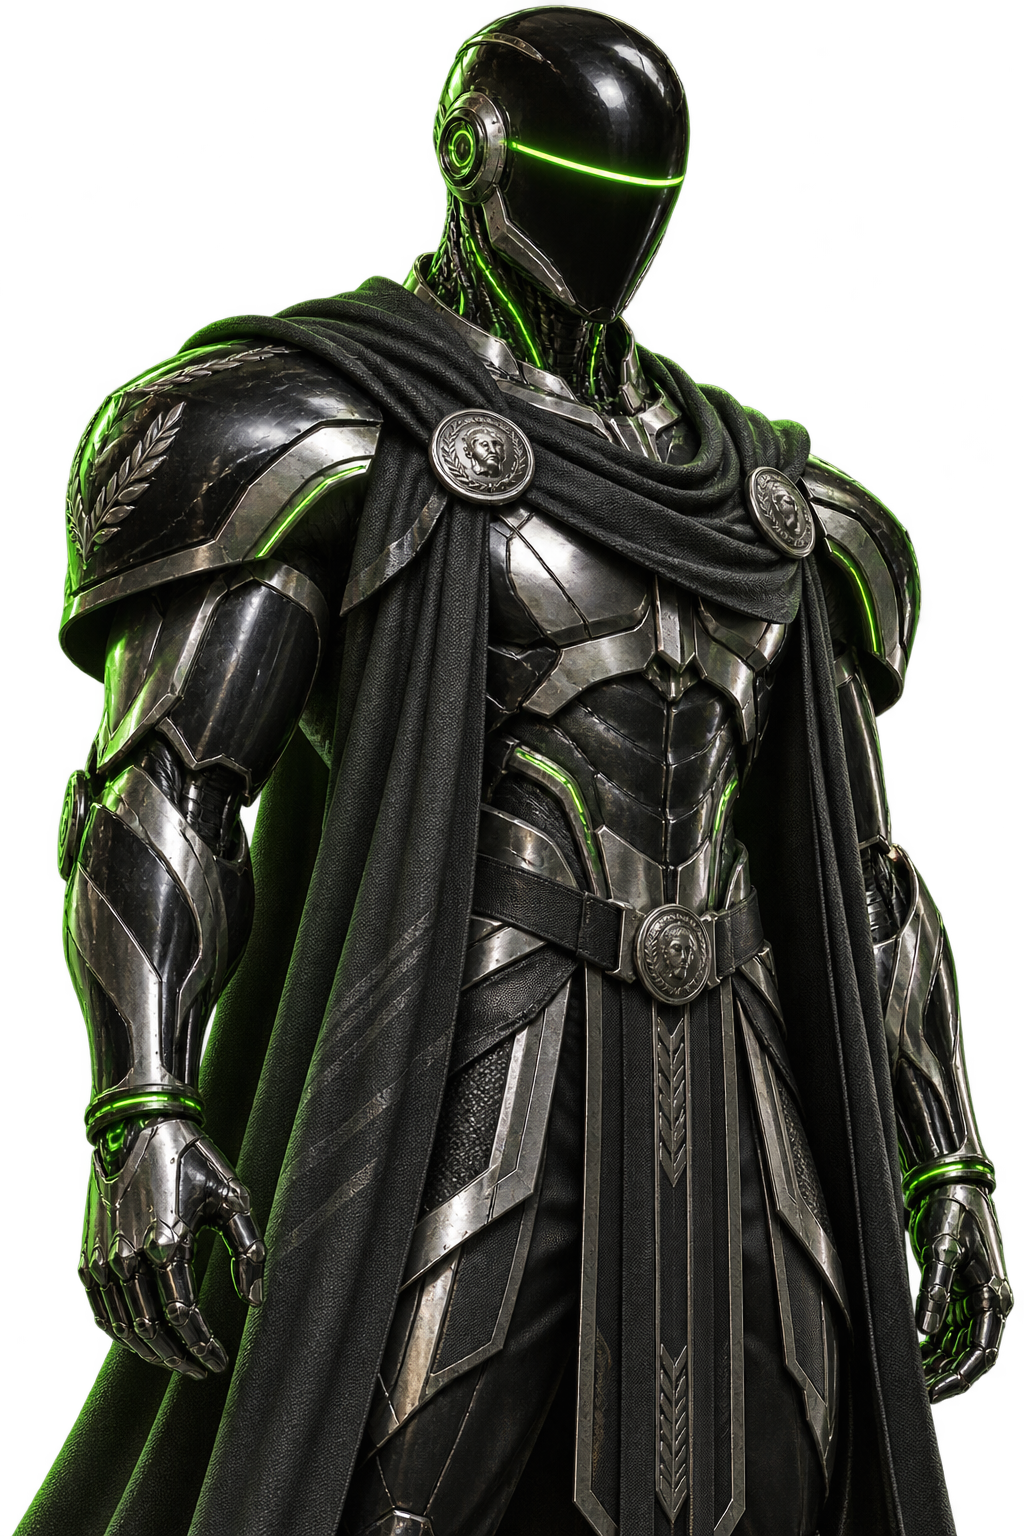
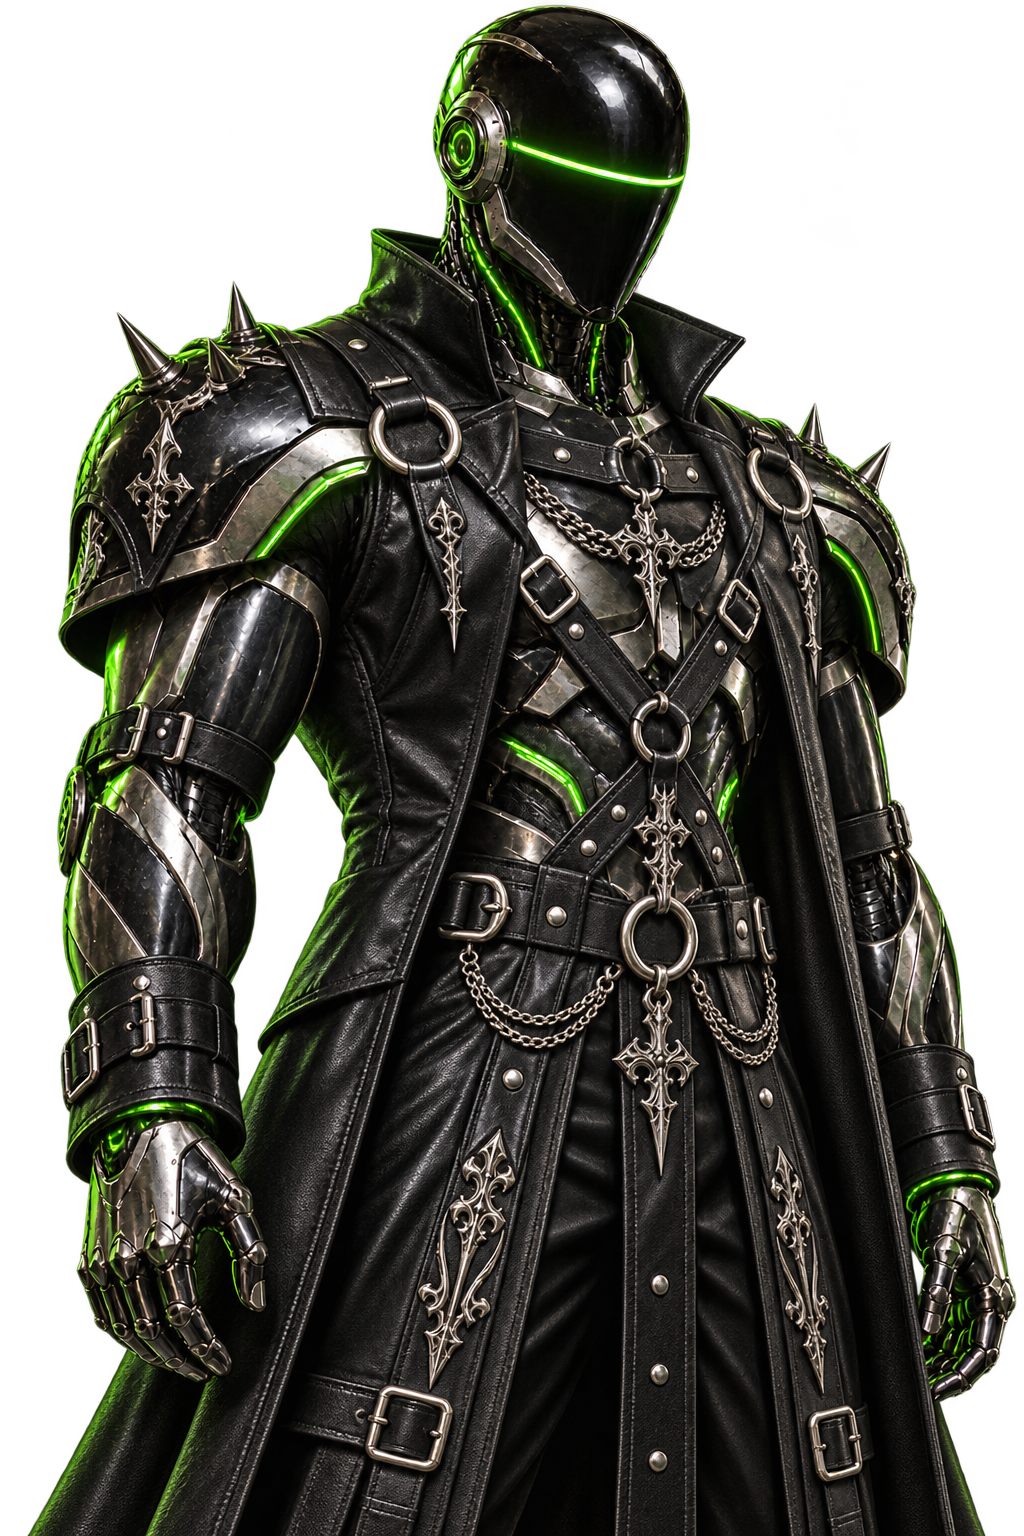
feat(site): Add gothic sci-fi fashion to Arena artwork

diff --git a/site/index.html b/site/index.html
@@ -27,7 +27,7 @@
   <main id="main">
     <section class="hero-scroll" data-parallax aria-labelledby="hero-title">
       <div class="hero stage">
-        <div class="scene hero-scene" id="hero-art" role="img" aria-label="Original concept art: a black-chrome cyborg emissary stands inside a monumental green-lit orbital Colosseum. Scrolling brings the character and architecture closer at different speeds.">
+        <div class="scene hero-scene" id="hero-art" role="img" aria-label="Original concept art: a black-chrome cyborg emissary in a studded leather harness coat stands inside a green-lit gothic orbital cathedral. Scrolling brings the character and architecture closer at different speeds.">
           <img class="scene-back" data-motion="vault" src="assets/neon-vault.png" alt="" aria-hidden="true" width="1536" height="1024" fetchpriority="high">
           <span class="hero-word" aria-hidden="true">CUCKODING</span>
           <img class="character emissary" data-motion="emissary" src="assets/neon-emissary.png" alt="" aria-hidden="true" width="1024" height="1536" fetchpriority="high">
@@ -82,7 +82,7 @@
     </div></section>
 
     <section class="section wrap afterparty" aria-labelledby="party-title"><div class="party-copy"><p class="eyebrow">Intermission / Pan has entered the chat</p><h2 id="party-title">They took<br>our jobs.<br><em>And the aux.</em></h2><p>The robots have discovered cocktails, synths, and questionable dance moves. Pan is delighted. The Emperor would like someone to finish the backlog.</p><p class="micro">SATIRE / NOT A FEATURE REQUEST</p></div>
-      <figure><div class="scene party-scene" id="revel-art" data-parallax role="img" aria-label="Concept art: a cybernetic Pan plays a synthesizer while two black-chrome robots dance and raise a cocktail in a neon arena."><img class="scene-back" data-motion="depth" src="assets/neon-arena.png" alt="" aria-hidden="true" width="1536" height="1024" loading="lazy"><img class="character pan" data-motion="pan" src="assets/neon-pan.png" alt="" aria-hidden="true" width="1254" height="1254" loading="lazy"><img class="character dancers" data-motion="dance" src="assets/neon-revelers.png" alt="" aria-hidden="true" width="1536" height="1024" loading="lazy"></div><figcaption>Separate characters. Shared questionable taste in music.</figcaption></figure>
+      <figure><div class="scene party-scene" id="revel-art" data-parallax role="img" aria-label="Concept art: a cybernetic Pan in studded leather plays a synthesizer while two robots in gothic harness fashion and platform boots dance and raise a cocktail in a neon arena."><img class="scene-back" data-motion="depth" src="assets/neon-arena.png" alt="" aria-hidden="true" width="1536" height="1024" loading="lazy"><img class="character pan" data-motion="pan" src="assets/neon-pan.png" alt="" aria-hidden="true" width="1254" height="1254" loading="lazy"><img class="character dancers" data-motion="dance" src="assets/neon-revelers.png" alt="" aria-hidden="true" width="1536" height="1024" loading="lazy"></div><figcaption>Separate characters. Shared questionable taste in music.</figcaption></figure>
     </section>
 
     <section class="section wrap" id="progress" aria-labelledby="progress-title"><div class="section-heading"><div><p class="eyebrow">04 / Development status</p><h2 id="progress-title">Real progress.<br><em>No holographic promises.</em></h2></div><p>Cuckoding is in active development. The source and local build instructions are available. This is not a signed or notarized public release.</p></div>
@@ -92,7 +92,7 @@
     </section>
 
     <section class="finale" aria-labelledby="finale-title"><div class="wrap"><div class="finale-copy"><p class="eyebrow">A warning from the cheap seats</p><h2 id="finale-title">Outsource the work.<br><em>Keep the joy.</em></h2><p>Give the machines every task, every dance, every ridiculous little pleasure — and eventually all that’s left is watching them have a life.</p></div>
-      <figure><div class="scene doom-scene" id="doom-art" data-parallax role="img" aria-label="Darkly satirical concept art: robots party above three melancholy adults chained to heavy weights, having surrendered their leisure to machines."><img class="scene-back" data-motion="depth" src="assets/neon-arena.png" alt="" aria-hidden="true" width="1536" height="1024" loading="lazy"><img class="character leisure" data-motion="leisure" src="assets/neon-revelers.png" alt="" aria-hidden="true" width="1536" height="1024" loading="lazy"><img class="character humans" data-motion="weight" src="assets/neon-humans.png" alt="" aria-hidden="true" width="1536" height="1024" loading="lazy"></div><figcaption>A fictional, satirical finale. Automation should buy you a life, not replace it.</figcaption></figure>
+      <figure><div class="scene doom-scene" id="doom-art" data-parallax role="img" aria-label="Darkly satirical concept art: robots in gothic leather and chrome party above three melancholy adults chained to heavy weights, having surrendered their leisure to machines."><img class="scene-back" data-motion="depth" src="assets/neon-arena.png" alt="" aria-hidden="true" width="1536" height="1024" loading="lazy"><img class="character leisure" data-motion="leisure" src="assets/neon-revelers.png" alt="" aria-hidden="true" width="1536" height="1024" loading="lazy"><img class="character humans" data-motion="weight" src="assets/neon-humans.png" alt="" aria-hidden="true" width="1536" height="1024" loading="lazy"></div><figcaption>A fictional, satirical finale. Automation should buy you a life, not replace it.</figcaption></figure>
     </div></section>
   </main>
   <footer class="site-footer wrap"><a class="brand" href="#top"><img src="assets/mark.svg" alt="" aria-hidden="true" width="36" height="36"><span>CUCKODING</span></a><p>Your machine. Your agents. Your call.</p><a href="https://github.com/mpakus/cuckoding.com/blob/main/LICENSE">Source &amp; license ↗</a><a href="#top">Back to surface ↑</a></footer>

diff --git a/docs/ARTWORK.md b/docs/ARTWORK.md
@@ -7,8 +7,14 @@ R019 adds two originals on the same date: a black-chrome emissary with real alph
 and an opaque orbital vault. The requested [1367 Studio](https://www.1367studio.com/)
 reference informed viewport composition and camera pacing only; none of its
 assets or source were copied. All seven foreground assets have real alpha; both
-backgrounds are opaque. Original generated
-PNG pixels are retained, composed and animated only in CSS/JavaScript. These are
+backgrounds are opaque. R019a revises the emissary, vault, Pan and revelers with
+the built-in image editor using only those existing original images as inputs.
+The gothic direction uses fully clothed leather/harness stage fashion, ornamental
+chains, spikes and cathedral architecture. Poses, dimensions and real foreground
+alpha are preserved. Earlier versions remain in Git at `1b1f623`; the existing
+filenames now serve the revised art in all scenes, including the finale's robots.
+Tool-generated PNG outputs are retained without pixel post-processing and
+composed/animated in CSS/JavaScript. These are
 fictional satirical illustrations, not product screenshots or provider evidence.
 
 | Scene | Background | Independent foregrounds |
@@ -31,7 +37,37 @@ R018 changes its accent to electric green and its icon tile to near-black, witho
 changing the silhouette. `bin/brand-icons` synchronizes site/app/native consumers
 and normalizes ICNS chunk ordering for repeatable output.
 
-## Final generation prompts
+## Current revision prompts — R019a
+
+Edited with built-in imagegen on 2026-10-10. Each input was the same-named original
+from `site/assets/` at `1b1f623`; each final output replaces that local file.
+No external reference artwork was supplied to the editor.
+
+### neon-emissary.png edit
+
+Transparent background: yes. Final file: `site/assets/neon-emissary.png`.
+
+Use case: style-transfer. Edit the supplied original cyborg hero into a striking SCI-FI GOTH fashion editorial. Keep the same single helmeted robot, portrait 1024x1536 composition, upright three-quarter pose, head/shoulders/framing and electric-green visor. Replace the Roman drape and much of the torso costume with a tailored glossy black leather high-collar coat, broad geometric harness straps worn OVER opaque armor, polished silver O-ring fasteners and buckles, ornamental chest chains, small spike shoulder accents and elegant gothic metal filigree. Strong black leather versus polished chrome contrast, acid-green rimlight and a few emerald illuminated circuit seams. Fashion-forward dark underground club aesthetic, commanding and theatrical, completely clothed; no nudity, no sexual activity, no restraint scene. Keep the original faceless helmet and professional cinematic detail, no text or logos. Preserve REAL transparent background and clean alpha around the whole figure; no painted background, floor or atmospheric rectangle. Original fictional design.
+
+### neon-vault.png edit
+
+Transparent background: no. Final file: `site/assets/neon-vault.png`.
+
+Use case: style-transfer. Edit this original black-green orbital Colosseum background into a SCI-FI GOTH cathedral arena. Keep its centered symmetrical perspective, circular green portal, empty foreground floor, landscape 1536x1024 framing and dark palette. Add soaring pointed gothic arches around the central portal, intricate black-metal rib vaulting, slender spired buttresses and green-lit stained-glass-like geometric tracery. A few large ornamental suspended steel chains at the far left and right edges belong to the architecture, not people. Black obsidian, aged silver and acid-green illumination only. Majestic underground futuristic cathedral mood, elegant chrome details and thin green volumetric light. Keep the central foreground EMPTY for a separate character layer. No figures, no words, symbols, logos or watermarks. Photoreal cinematic hard-surface concept art, same restrained darkness and strong readable depth.
+
+### neon-pan.png edit
+
+Transparent background: yes. Final file: `site/assets/neon-pan.png`.
+
+Use case: style-transfer. Edit this original joyful ADULT cybernetic Pan musician into a SCI-FI GOTH stage performer. Preserve his recognizable mature smiling bearded face, curved metal horns, mechanical goat legs, hoof-kick pose, complete body and synthesizer, square framing. Dress him in a fitted opaque black leather stage tunic and sculptural harness straps with silver rings/buckles worn OVER the tunic; add a studded high collar, short pointed shoulder armor, ornamental waist chains and dark gothic eyeliner. Elegant theatrical goth club fashion, playful charismatic musician, no nudity or sexual activity or restraint scene. Black chrome and glossy leather with bright acid-green instrument lights and rimlight ONLY. Keep both hands correctly playing the keyboard. All horns, hooves and instrument fully in frame. Preserve REAL transparent alpha background with no backdrop, floor, text, logos or watermark. High-end cinematic 3D detail matching the original.
+
+### neon-revelers.png edit
+
+Transparent background: yes. Final file: `site/assets/neon-revelers.png`.
+
+Use case: style-transfer. Edit these two original dancing helmeted robots into a stylish SCI-FI GOTH afterparty duo. Preserve exactly two clearly robotic figures, existing disco poses, raised green cocktail, full bodies and helmets, and wide 1536x1024 composition. Add futuristic goth couture: one wears an opaque fitted black glossy leather bodysuit under a sculptural corset-like armored vest, geometric chest harness straps and a silver-ring collar; the other a tailored black leather jacket with pointed shoulders, metal buckles, wide harness straps and decorative waist chains. Both wear chunky futuristic platform boots. All garments opaque and fully covering, fashion editorial only, no nudity, sexual activity or restraint scene. Keep humorous exuberant party body language. Use obsidian black, silver chrome, acid-green #82ff52 seam lights; no other bright colors. Preserve REAL transparent background, no ground or backdrop or atmospheric rectangle. No text, logos or watermarks. Polished original cinematic sci-fi art.
+
+## Original generation prompts (before R019a edits)
 
 ### neon-emissary.png
 

diff --git a/worklog/2026-10-10-R019a-goth-artwork.md b/worklog/2026-10-10-R019a-goth-artwork.md
@@ -1,0 +1,56 @@
+# R019a · Sci-fi gothic artwork
+
+2026-10-10. Clean main at `1b1f623`; claimed `feature/R019a-goth-artwork`.
+User requests sci-fi goth and BDSM-inspired ideas in the pictures. Interpret as
+non-explicit alternative fashion: leather tailoring, harness-style hardware,
+collars, decorative chains and spikes on clothed adult characters/robots, with
+gothic sci-fi architecture and green light. Preserve the existing scene layout,
+parallax, pause/reduced-motion controls and truthful product claims.
+
+Reach: four original generated images (emissary, vault, Pan, revelers), public
+image descriptions, artwork/site/plan documentation, README and AGENTS. Use the
+built-in image editor and retain real foreground alpha. No new JavaScript,
+dependency, application behavior or provider operations.
+
+Ponytail full 5.1.0 (MIT). All shell commands use RTK; `rtk proxy` preserves exact
+file inspection and native script semantics.
+
+## Result and verification
+
+Four built-in imagegen edits replaced the corresponding originals in
+`site/assets/`. Old art is retained in Git at `1b1f623`; exact edit prompts and
+inputs are documented in `docs/ARTWORK.md`. Scene accessible descriptions now
+describe the new costumes/architecture, including the finale's reused robots.
+No motion code, layout or application behavior changed.
+
+Read-only Pillow checks confirmed identical dimensions to each input, correct
+RGB/RGBA modes and real alpha (percentage of pixels with alpha below 16):
+
+| Asset | Dimensions | Bytes | Near-transparent pixels |
+| --- | --- | --- | --- |
+| neon-emissary.png | 1024×1536 | 2,912,737 | 30.9% |
+| neon-vault.png | 1536×1024 | 2,493,215 | Opaque background |
+| neon-pan.png | 1254×1254 | 1,182,348 | 73.9% |
+| neon-revelers.png | 1536×1024 | 1,799,855 | 78.4% |
+
+- `rtk proxy python3 bin/check-site`: PASS, 35 links/assets, scope/provenance,
+  accessibility structure, motion fallback and Pages boundary.
+- `rtk proxy node --test test/site_test.mjs`: all 5 tests passed.
+- `rtk git diff --check`: passed.
+- Changed documentation local-link validation: passed.
+- CUA rendered review at 1440×1000 and 390×844: hero and afterparty compositing,
+  legible copy, preserved transparent edges, all edited images loaded, no page
+  horizontal overflow. Narrow finale reuse inspected. Pause reset all afterparty
+  layer transforms and was resumed; no browser errors were reported.
+- Screenshots: `/private/tmp/cuckoding-r019a-visual/desktop-hero.png`,
+  `desktop-afterparty.png`, `mobile-hero.png`, `mobile-afterparty.png`.
+
+Physical mobile/Safari and OS reduced-motion toggling were not repeated. Existing
+Node preference tests passed; native app tests/build were not run for this
+artwork-only change. No new tests mirror unchanged logic.
+
+## Integration
+
+Commit and fast-forward merge to local main, then remove the task branch. Keep
+the existing loopback preview at `http://127.0.0.1:4387/`; no push/deployment or
+native app restart. Docs, README and AGENTS updated with the resulting direction.

diff --git a/docs/SITE.md b/docs/SITE.md
@@ -21,11 +21,18 @@ Cuckoding uses original black/green emissary and orbital-vault artwork, oversize
 background lettering, a full-width duel and staggered role portraits. Readable
 copy and controls remain stationary within their sections.
 
+R019a adds sci-fi gothic architecture and alternative fashion: pointed cathedral
+arches, studded leather, harness hardware, silver rings and ornamental chains.
+The fully clothed emissary, Pan and robot duo keep their poses and green accents;
+the treatment is non-explicit stage/club fashion. The existing finale keeps its
+separate satirical meaning. The built-in image editor revised our own originals.
+
 Four scenes use independent layers: an emissary hero, a sticky sword/morgenstern
 duel, cybernetic Pan and dancing robots, then chained melancholy humans beneath
 robot leisure. Seven foreground instances use two background plates. Static role
 cards reuse the earlier sentinel and gladiators. The hero is eager;
-below-fold scenes/cards are lazy. Original PNGs are retained without pixel edits.
+below-fold scenes/cards are lazy. Generated PNG outputs are retained without
+pixel post-processing; revision prompts and prior versions remain documented.
 The artwork and board are explicitly illustrative, never evidence of shipped UI.
 
 Transforms are bounded, use one coalesced animation frame per scroll/resize, and

diff --git a/README.md b/README.md
@@ -134,6 +134,8 @@ offers **Refresh models**; selecting/reviewing/saving still needs a fresh list.
 The black-and-electric-green cybernetic Arena lives in [site/](site/index.html):
 original chrome agents, an orbital Colosseum, a sword-and-morgenstern duel,
 dancing Pan and robots, ending with melancholy humans who outsourced their joy.
+The artwork combines gothic cathedral architecture with sci-fi leather, harness
+hardware, spikes and ornamental chains in non-explicit stage/club fashion.
 Four scenes have independent background/character layers with scroll motion,
 pause and reduced-motion controls. The site opens with a full-screen cyborg and
 scroll-driven camera approach, followed by spacious editorial sections and a

diff --git a/AGENTS.md b/AGENTS.md
@@ -251,6 +251,8 @@ R019 cinematic pinning is progressive enhancement: no-JS/reduced-motion content
 stays in normal flow, user pause preserves page height, and readable copy/controls
 never receive parallax transforms. Reference sites inspire composition only;
 retain original local artwork and record prompts in `docs/ARTWORK.md`.
+R019a adds gothic sci-fi architecture and leather/harness stage fashion; preserve
+the fully clothed characters, green palette and independent transparent layers.
 Never describe planned features
 or concept boards as available product behavior. Only `site/` may be published;
 local merge is not permission to push/deploy. Follow [Site](docs/SITE.md), run

diff --git a/docs/PLAN.md b/docs/PLAN.md
@@ -114,6 +114,8 @@ Depends on R010. User-requested addition; does not block the app's R020 sequence
 - [x] Add an emissary and orbital-vault plate; preserve layered satire and truthful public claims.
 - [x] Bound reversible camera depth; keep pause, reduced motion, native scrolling and no-JS content.
 - [x] Verify desktop/narrow rendering and motion checks; record [R019 evidence](../worklog/2026-10-10-R019-cinematic-parallax.md).
+- [x] R019a: gothic sci-fi hero/architecture and afterparty costumes; preserve
+  independent layers and verify [artwork evidence](../worklog/2026-10-10-R019a-goth-artwork.md).
 
 ## R020 — One real agent and durable models
 

diff --git a/tasks/R019a-goth-artwork.md b/tasks/R019a-goth-artwork.md
@@ -1,0 +1,10 @@
+# R019a · Sci-fi gothic artwork
+
+Status: complete, 2026-10-10.
+
+- [x] Add a non-explicit sci-fi gothic fashion direction to the current hero and afterparty: black leather, sculptural harness hardware, chains, spikes and green light.
+- [x] Preserve independent character/background layers, recognizable characters, satire and original-art provenance.
+- [x] Verify transparency, bounded assets, desktop/narrow composition and existing motion checks.
+- [x] Update docs, AGENTS and README; commit and merge to local main without publishing.
+
+Evidence: [worklog](../worklog/2026-10-10-R019a-goth-artwork.md).
